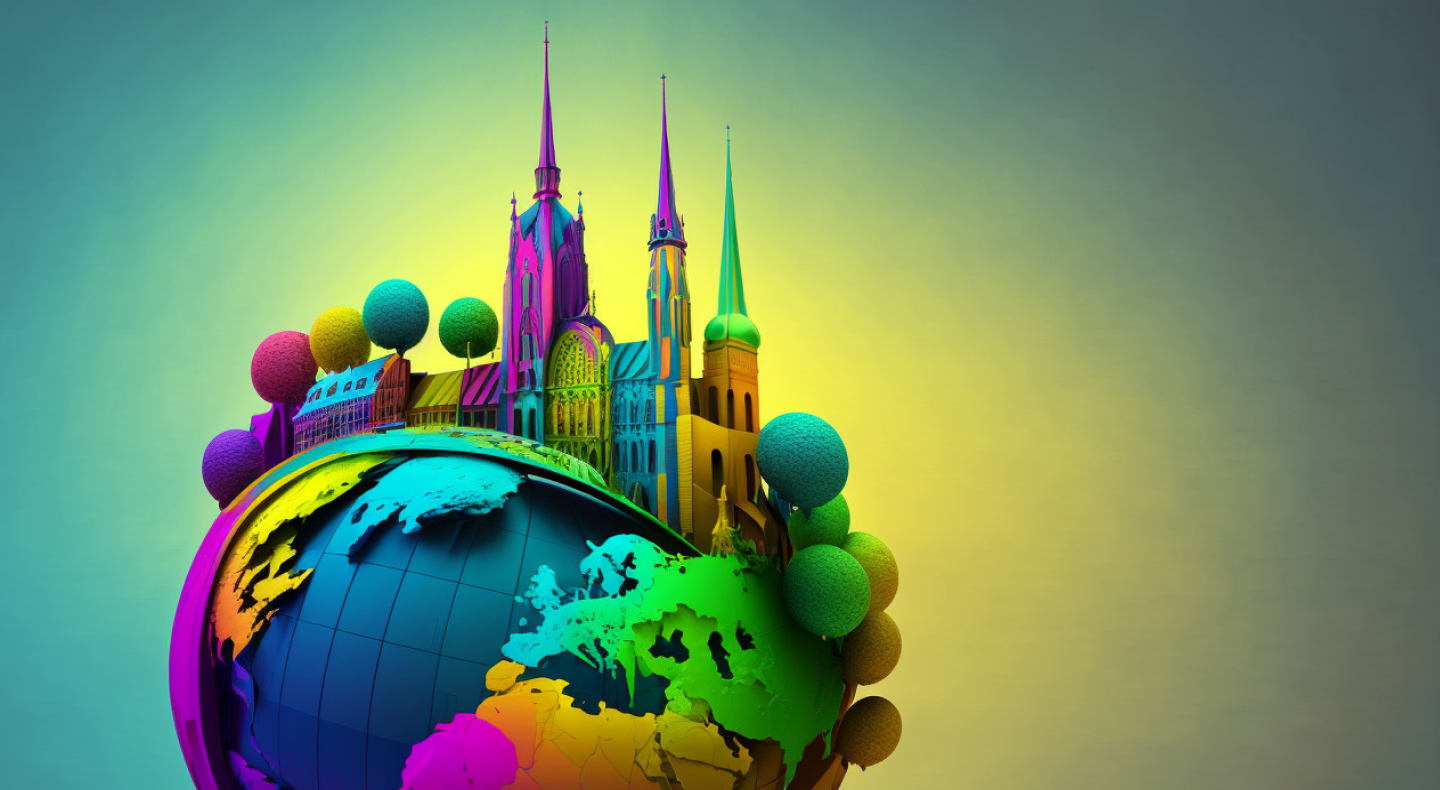
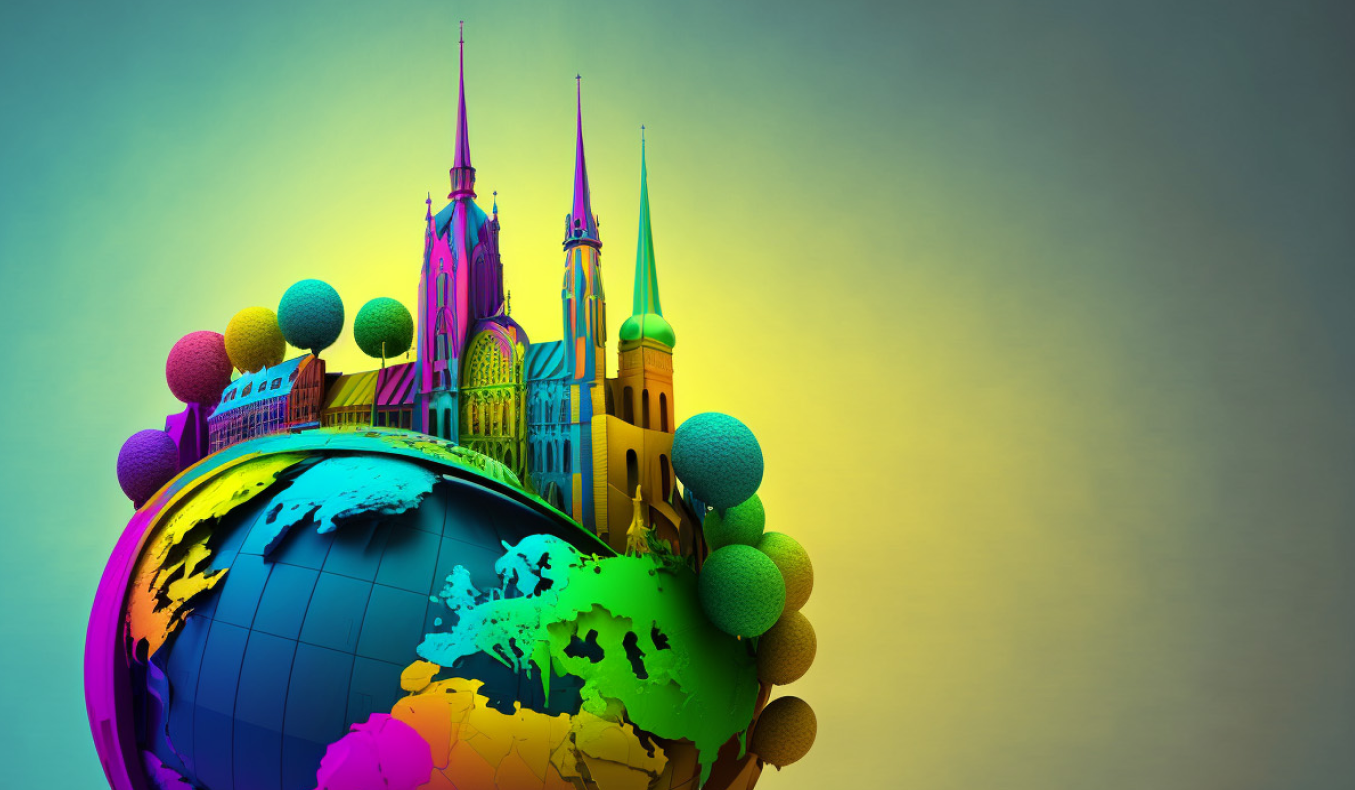
asdasd

diff --git a/src/Pages/Landing/Hero.jsx b/src/Pages/Landing/Hero.jsx
@@ -53,7 +53,7 @@ const Hero = () => {
     <div className="wrapper min-h-[700px] h-screen">
       <Splide
         options={{
-          autoplay: true,
+          // autoplay: true,
           fixedHeight: "100vh",
           width: "100%",
           fixedWidth: "100vw",
@@ -91,12 +91,12 @@ const Hero = () => {
           </SplideSlide>
           <SplideSlide>
             {" "}
-            <div className="w-full relative h-full">
-              <img
+            <div className="w-full relative bg-slide2 bg-cover bg-no-repeat bg-left h-full">
+              {/* <img
                 src="/slide2.png"
-                className="w-full object-cover h-full"
+                className="w-full  object-cover h-full"
                 alt=""
-              />
+              /> */}
               <div className="contain justify-center sm:justify-end absolute left-1/2 top-1/2 -translate-x-1/2 -translate-y-1/2 items-center">
                 <div className="font-anton  text-[40px] text-center sm:text-left sm:text-[80px] font-normal text-white">
                   <p className="leading-[1.2] drop-shadow-text">
